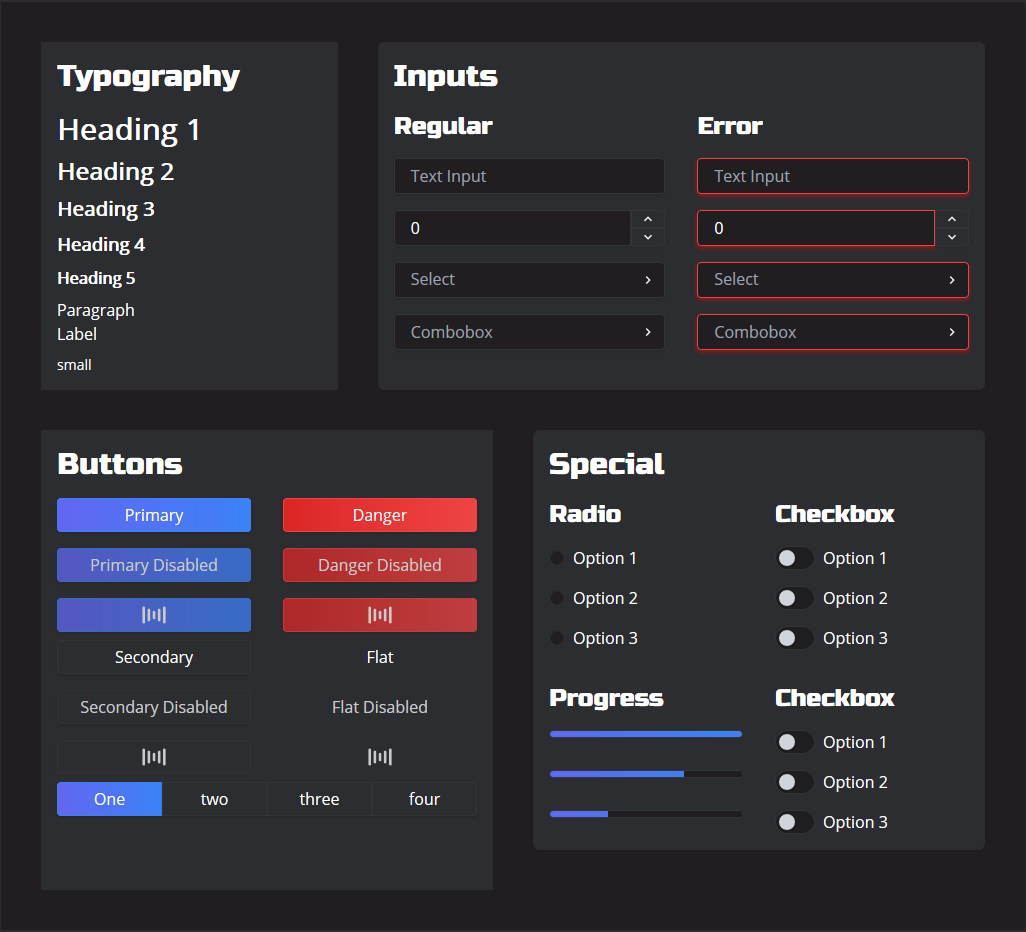
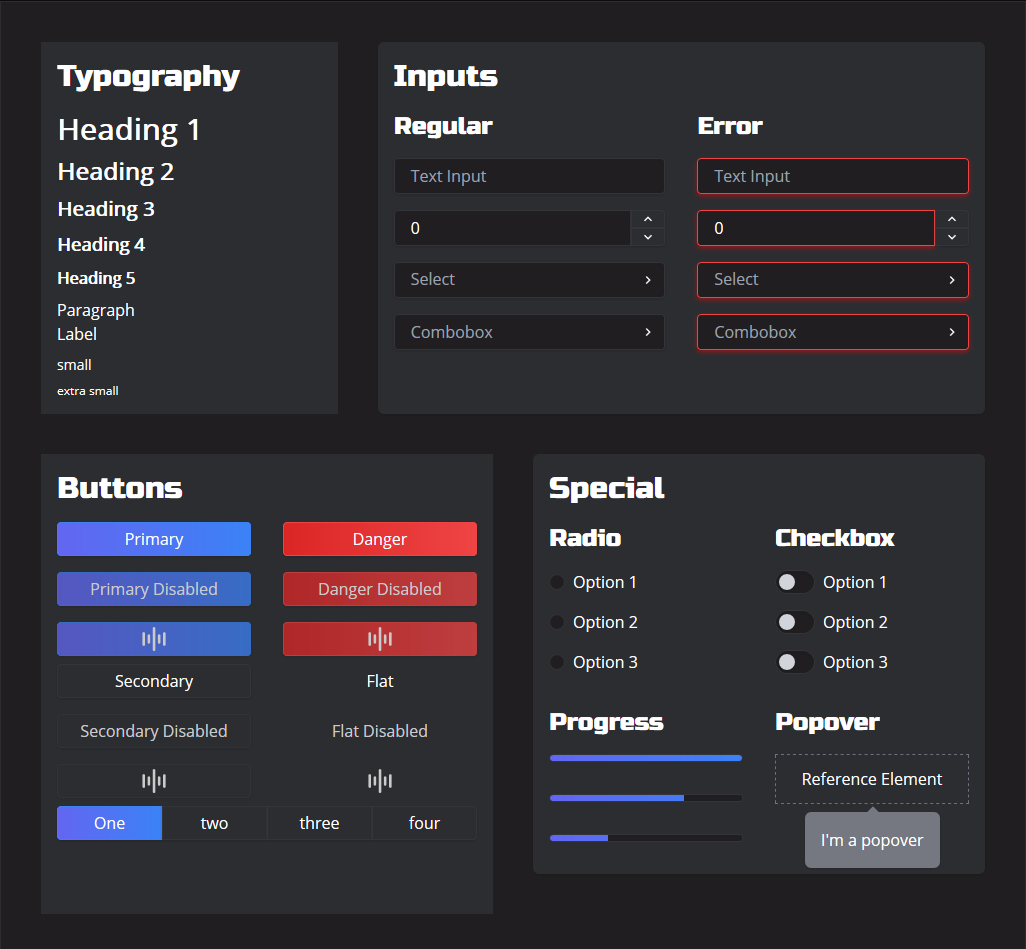
Added popover

diff --git a/src/Button/Button.tsx b/src/Button/Button.tsx
@@ -23,82 +23,92 @@ type HtmlButtonProps = Omit<
   keyof ButtonProps
 >;
 
-export const Button: React.FC<HtmlButtonProps & ButtonProps> = ({
-  children,
-  className,
-  variant = "primary",
-  disabled = false,
-  loading = false,
-  submit = false,
-  ...props
-}) => {
-  const { showSkeleton } = useSkeletonContext();
-  const baseStyles =
-    "rcn-px-4 rcn-py-1 rcn-rounded rcn-text-white rcn-transition-all rcn-ease-in-out rcn-flex rcn-items-center rcn-relative rcn-outline-none focus:rcn-outline-none";
+export const Button = React.forwardRef<
+  HTMLButtonElement,
+  HtmlButtonProps & ButtonProps
+>(
+  (
+    {
+      children,
+      className,
+      variant = "primary",
+      disabled = false,
+      loading = false,
+      submit = false,
+      ...props
+    },
+    ref
+  ) => {
+    const { showSkeleton } = useSkeletonContext();
+    const baseStyles =
+      "rcn-px-4 rcn-py-1 rcn-rounded rcn-text-white rcn-transition-all rcn-ease-in-out rcn-flex rcn-items-center rcn-relative rcn-outline-none focus:rcn-outline-none";
 
-  const variantStyles: {
-    [key in typeof variant]: { base: string; hover: string };
-  } = {
-    primary: {
-      base:
-        "rcn-shadow rcn-border-blue-500 rcn-border rcn-bg-gradient-to-r rcn-from-indigo-500 rcn-to-indigo-500 rcn-via-blue-500 rcn-bg-200% focus:rcn-shadow-blue",
-      hover: "hover:rcn-bg-right",
-    },
-    danger: {
-      base:
-        "rcn-shadow rcn-border-red-500 rcn-border rcn-bg-gradient-to-r rcn-from-red-600 rcn-to-red-600 rcn-via-red-500 rcn-bg-200% focus:rcn-shadow-red",
-      hover: "hover:rcn-bg-right",
-    },
-    secondary: {
-      base:
-        "rcn-shadow rcn-bg-dark-1 rcn-border-dark-2 rcn-border focus:rcn-shadow-dark",
-      hover: "hover:rcn-bg-dark-0 hover:rcn-border-dark-1",
-    },
-    flat: {
-      base: "rcn-border rcn-bg-dark-1 rcn-border-dark-1 focus:rcn-shadow-dark",
-      hover: "hover:rcn-border-dark-2",
-    },
-  };
+    const variantStyles: {
+      [key in typeof variant]: { base: string; hover: string };
+    } = {
+      primary: {
+        base:
+          "rcn-shadow rcn-border-blue-500 rcn-border rcn-bg-gradient-to-r rcn-from-indigo-500 rcn-to-indigo-500 rcn-via-blue-500 rcn-bg-200% focus:rcn-shadow-blue",
+        hover: "hover:rcn-bg-right",
+      },
+      danger: {
+        base:
+          "rcn-shadow rcn-border-red-500 rcn-border rcn-bg-gradient-to-r rcn-from-red-600 rcn-to-red-600 rcn-via-red-500 rcn-bg-200% focus:rcn-shadow-red",
+        hover: "hover:rcn-bg-right",
+      },
+      secondary: {
+        base:
+          "rcn-shadow rcn-bg-dark-1 rcn-border-dark-2 rcn-border focus:rcn-shadow-dark",
+        hover: "hover:rcn-bg-dark-0 hover:rcn-border-dark-1",
+      },
+      flat: {
+        base:
+          "rcn-border rcn-bg-dark-1 rcn-border-dark-1 focus:rcn-shadow-dark",
+        hover: "hover:rcn-border-dark-2",
+      },
+    };
 
-  if (showSkeleton) {
+    if (showSkeleton) {
+      return (
+        <Skeleton
+          className={classNames(
+            baseStyles,
+            className,
+            "rcn-h-9 rcn-inline-block rcn-w-24"
+          )}
+        />
+      );
+    }
+
     return (
-      <Skeleton
+      <button
         className={classNames(
           baseStyles,
-          className,
-          "rcn-h-9 rcn-inline-block rcn-w-24"
+          variantStyles[variant].base,
+          !disabled && !loading && variantStyles[variant].hover,
+          (disabled || loading) && "rcn-opacity-75 rcn-cursor-not-allowed",
+          className
         )}
-      />
+        type={submit ? "submit" : "button"}
+        ref={ref}
+        {...props}
+      >
+        {loading && (
+          <Loading
+            height="1.5rem"
+            width="2rem"
+            className="rcn-absolute rcn-mx-auto rcn-left-2/4 rcn-transform rcn--translate-x-2/4"
+          />
+        )}
+        <span
+          className={classNames(
+            "rcn-flex rcn-w-full rcn-justify-center rcn-items-center",
+            loading && "rcn-invisible"
+          )}
+        >
+          {children}
+        </span>
+      </button>
     );
   }
-
-  return (
-    <button
-      className={classNames(
-        baseStyles,
-        variantStyles[variant].base,
-        !disabled && !loading && variantStyles[variant].hover,
-        (disabled || loading) && "rcn-opacity-75 rcn-cursor-not-allowed",
-        className
-      )}
-      type={submit ? "submit" : "button"}
-      {...props}
-    >
-      {loading && (
-        <Loading
-          height="1.5rem"
-          width="2rem"
-          className="rcn-absolute rcn-mx-auto rcn-left-2/4 rcn-transform rcn--translate-x-2/4"
-        />
-      )}
-      <span
-        className={classNames(
-          "rcn-flex rcn-w-full rcn-justify-center rcn-items-center",
-          loading && "rcn-invisible"
-        )}
-      >
-        {children}
-      </span>
-    </button>
-  );
-};
+);

diff --git a/src/Popover/Popover.tsx b/src/Popover/Popover.tsx
@@ -1,0 +1,93 @@
+/* eslint-disable no-plusplus */
+import "../tailwind.scss";
+import "./Popover.scss";
+
+import classNames from "classnames";
+import React, { useState } from "react";
+import { PopperProps, usePopper } from "react-popper";
+import usePortal from "react-useportal";
+
+import { Card } from "../Card";
+import { Component } from "../shared";
+
+export interface PopoverProps extends Component {
+  // eslint-disable-next-line @typescript-eslint/no-explicit-any
+  placement?: PopperProps<any>["placement"];
+  arrowClassName?: string;
+  visible?: boolean;
+}
+
+export const Popover: React.FC<PopoverProps> = ({
+  children,
+  placement,
+  className,
+  arrowClassName,
+  visible,
+}) => {
+  const [referenceElement, setReferenceElement] = useState(null);
+  const [popperElement, setPopperElement] = useState(null);
+  const [arrowElement, setArrowElement] = useState(null);
+  const [visibility, setVisibility] = useState(visible || false);
+  const { styles: popperStyles, attributes } = usePopper(
+    referenceElement,
+    popperElement,
+    {
+      placement,
+      modifiers: [
+        { name: "arrow", options: { element: arrowElement } },
+        {
+          name: "offset",
+          options: {
+            offset: [0, 8],
+          },
+        },
+      ],
+    }
+  );
+  const { Portal } = usePortal();
+
+  if (React.Children.count(children) !== 2) {
+    throw new Error("Popover must have two children only");
+  }
+  const childrenArr = React.Children.toArray(children);
+  const refEl = childrenArr[0];
+  const portalEl = childrenArr[1];
+
+  const handleRefClick = () => {
+    setVisibility(!visibility);
+  };
+
+  const controlled = visible !== undefined;
+
+  return (
+    <>
+      {React.cloneElement(refEl as React.ReactElement, {
+        ref: setReferenceElement,
+        onClick: !controlled && handleRefClick,
+      })}
+      <Portal>
+        <div
+          id="rcn-popper"
+          ref={setPopperElement}
+          style={popperStyles.popper}
+          {...attributes.popper}
+        >
+          {visibility && (
+            <>
+              <Card className={classNames("rcn-bg-dark-3", className)}>
+                {portalEl}
+              </Card>
+              <div
+                ref={setArrowElement}
+                style={popperStyles.arrow}
+                id="rcn-popper-arrow"
+                className={classNames("rcn-bg-dark-3", arrowClassName)}
+                data-popper-arrow
+              />
+            </>
+          )}
+        </div>
+      </Portal>
+    </>
+  );
+};

diff --git a/src/playground.stories.tsx b/src/playground.stories.tsx
@@ -1,3 +1,5 @@
+import "./playground.scss";
+
 import { Meta } from "@storybook/react";
 import React from "react";
 
@@ -8,6 +10,7 @@ import { Checkbox } from "./Checkbox";
 import { Combobox } from "./Combobox";
 import { NumberInput } from "./NumberInput";
 import { Panel } from "./Panel";
+import { Popover } from "./Popover/Popover";
 import { Progress } from "./Progress";
 import { Radio } from "./Radio";
 import { Select, SelectItem } from "./Select";
@@ -152,11 +155,14 @@ export const Playground = () => (
         </div>
         <div className="rcn-flex-1 rcn-flex rcn-flex-col rcn-space-y-4">
           <Typography className="font-title" variant="h2">
-            Checkbox
+            Popover
           </Typography>
-          <Checkbox label="Option 1" />
-          <Checkbox label="Option 2" />
-          <Checkbox label="Option 3" />
+          <Popover visible placement="bottom">
+            <div className="rcn-border-dashed rcn-border-gray-500 rcn-border rcn-text-white rcn-p-3 rcn-text-center">
+              Reference Element
+            </div>
+            I&apos;m a popover
+          </Popover>
         </div>
       </div>
     </Card>

diff --git a/src/Popover/Popover.scss b/src/Popover/Popover.scss
@@ -1,0 +1,33 @@
+#rcn-popper-arrow,
+#rcn-popper-arrow::before {
+  position: absolute;
+  width: 8px;
+  height: 8px;
+}
+
+#rcn-popper-arrow {
+  visibility: hidden;
+}
+
+#rcn-popper-arrow::before {
+  visibility: visible;
+  content: "";
+  transform: rotate(45deg);
+  background: inherit;
+}
+
+#rcn-popper[data-popper-placement^="top"] > #rcn-popper-arrow {
+  bottom: -4px;
+}
+
+#rcn-popper[data-popper-placement^="bottom"] > #rcn-popper-arrow {
+  top: -4px;
+}
+
+#rcn-popper[data-popper-placement^="left"] > #rcn-popper-arrow {
+  right: -4px;
+}
+
+#rcn-popper[data-popper-placement^="right"] > #rcn-popper-arrow {
+  left: -4px;
+}

diff --git a/src/Popover/Popover.stories.tsx b/src/Popover/Popover.stories.tsx
@@ -1,0 +1,18 @@
+import { Meta } from "@storybook/react";
+import React from "react";
+
+import { Popover } from "./Popover";
+
+export default {
+  title: "Other/Popover",
+  component: Popover,
+} as Meta;
+
+export const Component = (): React.ReactElement => (
+  <Popover visible>
+    <div className="rcn-border-dashed rcn-border-gray-500 rcn-border rcn-text-white rcn-w-28 rcn-p-4">
+      Reference Element
+    </div>
+    I&apos;m a popover
+  </Popover>
+);

diff --git a/tailwind.config.js b/tailwind.config.js
@@ -3,7 +3,7 @@ const colors = (theme) => ({
   "dark-0": "#201E20",
   "dark-1": "#2C2D31",
   "dark-2": "#343539",
-  "dark-3": "#969696",
+  "dark-3": "#767881",
 });
 
 // tailwind.config.js

diff --git a/src/Popover/index.ts b/src/Popover/index.ts
@@ -1,0 +1,1 @@
+export { Popover, PopoverProps } from "./Popover";

diff --git a/src/playground.scss b/src/playground.scss
@@ -1,0 +1,3 @@
+.font-title {
+  font-family: 'Russo One';
+}

diff --git a/README.md b/README.md
@@ -2,9 +2,10 @@
 
 Named after the best ship in the galaxy (and beyond the ring), Rocinante is a small and sleek dark mode focused UI library with big guns 💪.
 
-[![https://nodei.co/npm/@rocinante/core.png?downloads=true&downloadRank=true&stars=true](https://nodei.co/npm/@rocinante/core.png?downloads=true&downloadRank=true&stars=true)](https://www.npmjs.com/package/@rocinante/core)
-
-[![Node version](https://img.shields.io/npm/v/@rocinante/core/latest.svg?style=flat)](https://www.npmjs.com/package/@rocinante/core)
+<p>
+  <a href="https://www.npmjs.com/package/@rocinante/core"><img  src="https://img.shields.io/npm/v/@rocinante/core?style=for-the-badge"/></a>
+<a href="https://bundlephobia.com/result?p=@rocinante/core@latest"><img src="https://img.shields.io/bundlephobia/min/@rocinante/core?style=for-the-badge"/></a>
+</p>
 
 ![Library Image](assets/playground.PNG)
 
